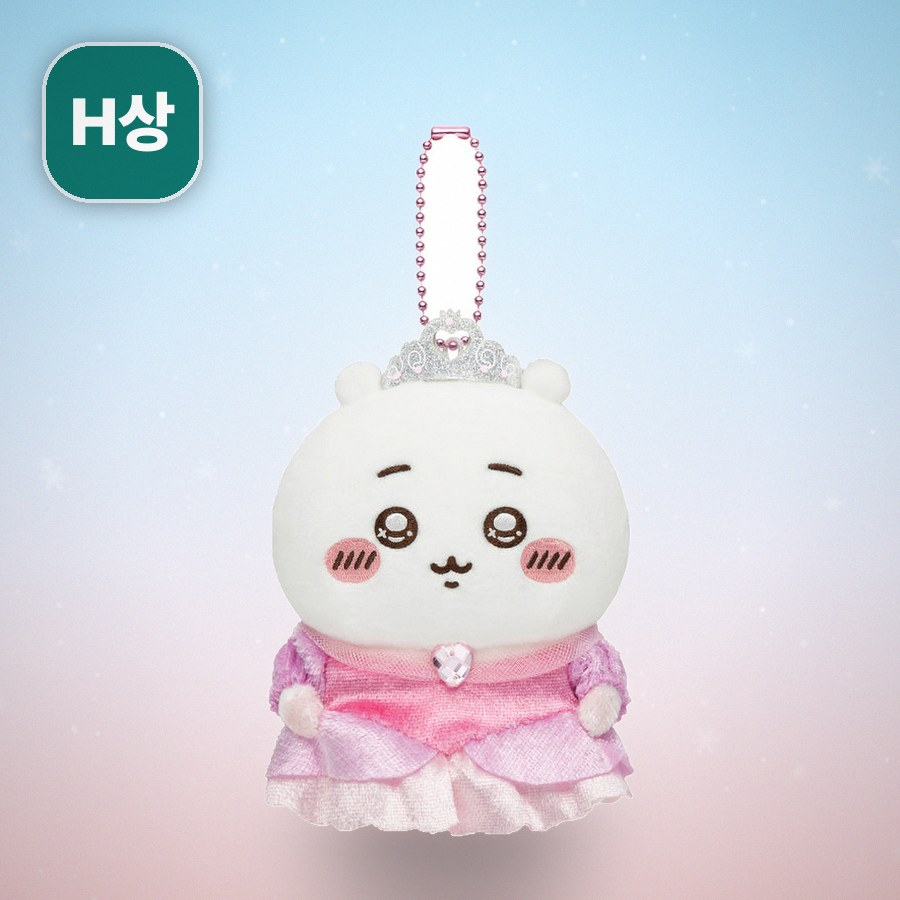
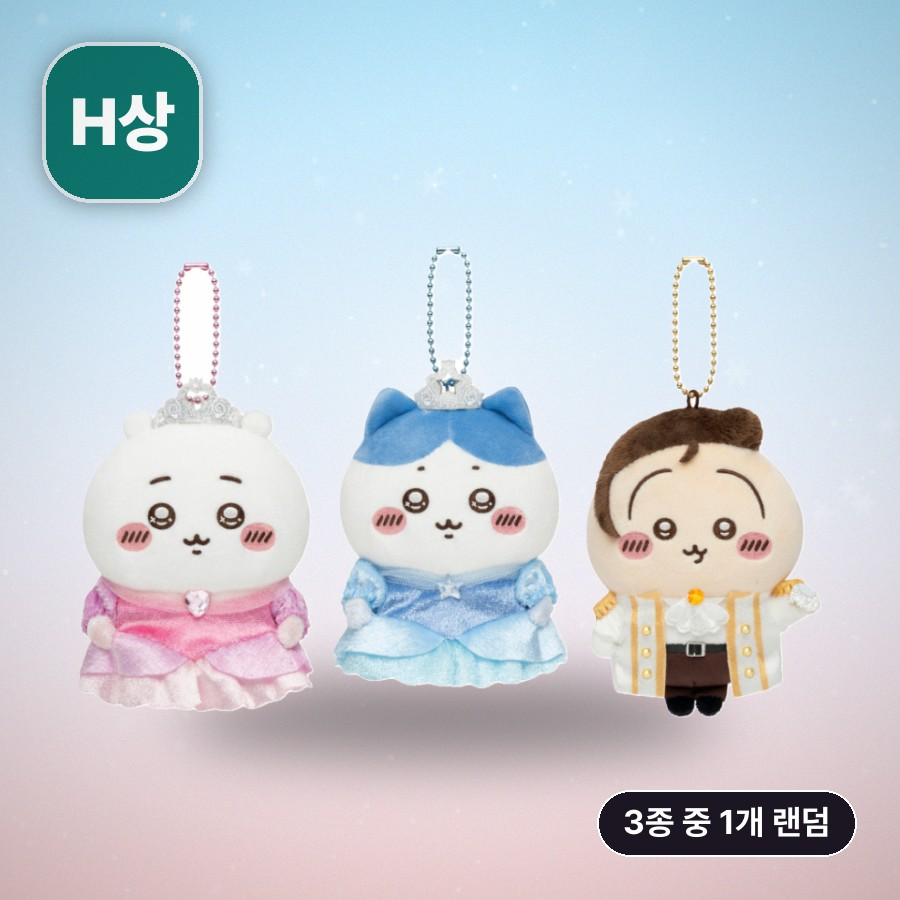
v4.1.8: 두 판 등급 카드 전수 재누끼(구멍 0) + 캐릭터 2~4종 나열 + 라인업 재생성 · COVER_VER 4.1.8

Changed region(s): [[0.0933, 0.1244, 0.9644, 1.0], [0.1556, 0.28, 0.28, 0.4978]]

diff --git a/assets/app.js b/assets/app.js
@@ -120,7 +120,7 @@
   }
   var h = escapeHtml;
   /* 실물 커버 등 상품 이미지 캐시 갱신용 버전 (커버 교체 시 올린다) */
-  var COVER_VER = '4.1.7';
+  var COVER_VER = '4.1.8';
   /* P상(굿즈 포인트) 카드 기본 이미지 — 판에 P상 이미지가 없으면 이 이미지를 쓴다 */
   var POINT_IMG = 'assets/products/point/p.jpg';
   function coverSrc(url) {

diff --git a/index.html b/index.html
@@ -789,6 +789,6 @@
 </div>
 
 <script src="assets/config.js?v=3.0.2"></script>
-<script src="assets/app.js?v=4.1.7" defer></script>
+<script src="assets/app.js?v=4.1.8" defer></script>
 </body>
 </html>
